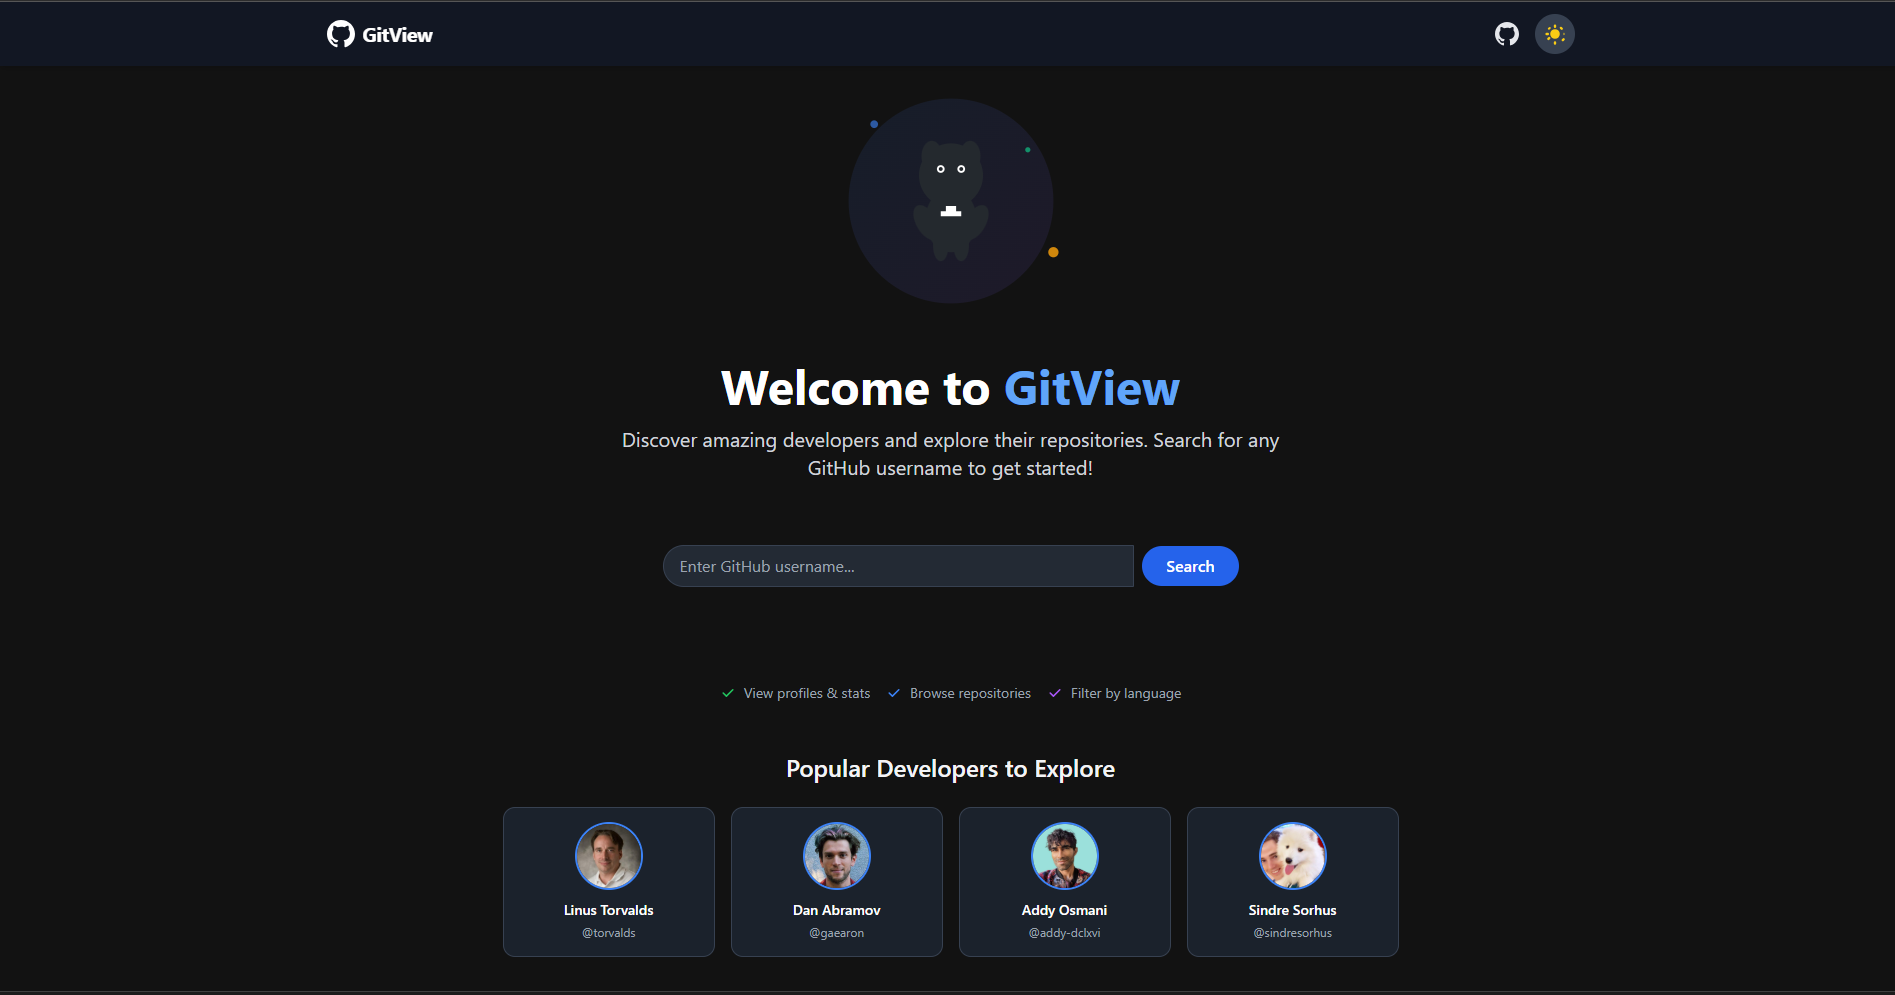
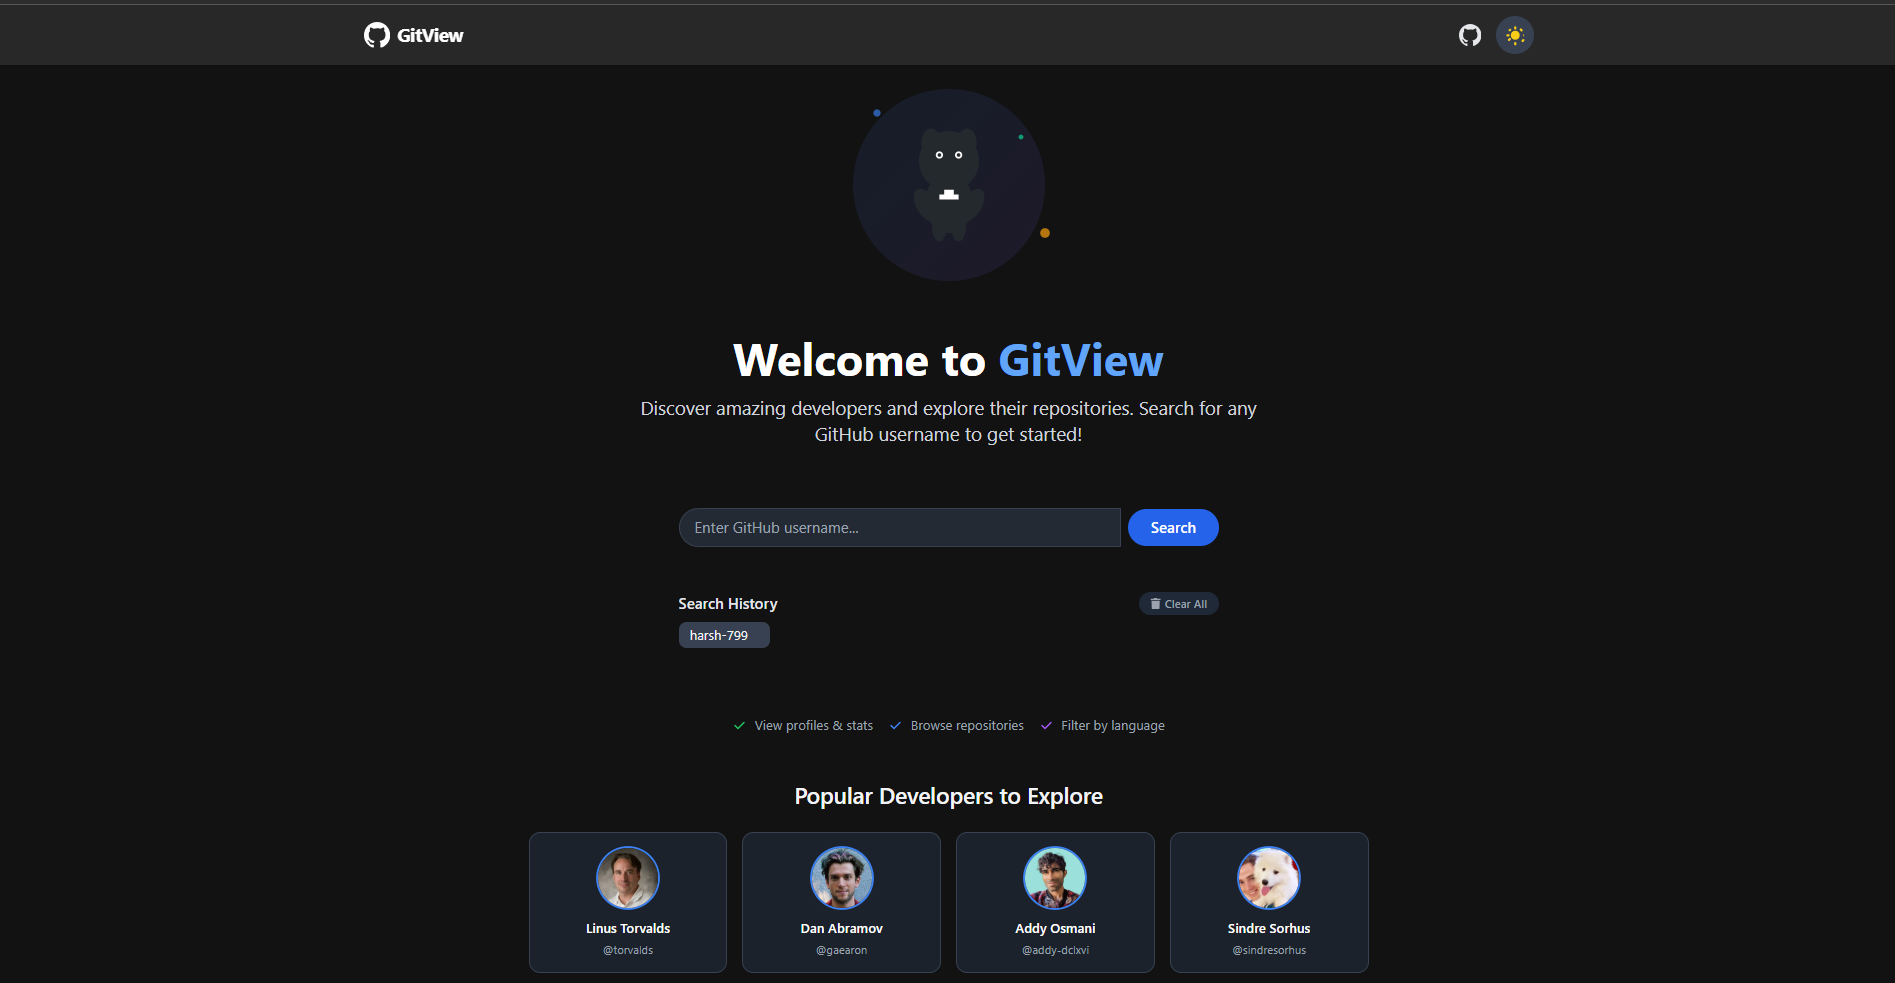
Some UI Tweaks
- Changed Light/Dark Mode colors as it was leading to Ui inconsistency

diff --git a/src/components/RepoCard.js b/src/components/RepoCard.js
@@ -17,7 +17,7 @@ export default function RepoCard({ repo }) {
   };
 
   return (
-    <div className="bg-white/60 dark:bg-gray-800/60 rounded-xl shadow-lg p-5 mb-4 backdrop-blur border border-gray-200 dark:border-gray-800 transition hover:scale-[1.02] hover:shadow-2xl flex flex-col gap-2">
+    <div className="bg-white/60 dark:bg-[#282828] rounded-xl shadow-lg p-5 mb-4 backdrop-blur border border-gray-200 dark:border-gray-800 transition hover:scale-[1.02] hover:shadow-2xl flex flex-col gap-2">
       <div className="flex items-center justify-between mb-2">
         <div className="flex items-center gap-2">
           <a
@@ -60,7 +60,7 @@ export default function RepoCard({ repo }) {
           href={repo.html_url}
           target="_blank"
           rel="noopener noreferrer"
-          className="inline-block rounded-full bg-gray-800 text-white px-4 py-1 text-sm font-medium hover:bg-gray-700 transition-all shadow"
+          className="inline-block rounded-full bg-gray-800 dark:bg-gray-700 text-white px-4 py-1 text-sm font-medium hover:bg-gray-700 transition-all duration-300 shadow-md hover:shadow-lg hover:scale-105"
         >
           View on GitHub
         </a>

diff --git a/src/components/UserProfileCard.js b/src/components/UserProfileCard.js
@@ -5,7 +5,7 @@ import { FaUserFriends, FaUserPlus, FaGithub } from 'react-icons/fa';
 export default function UserProfileCard({ user }) {
   if (!user) return null;
   return (
-    <div className="w-full max-w-2xl mx-auto bg-white/70 dark:bg-gray-900/70 backdrop-blur rounded-2xl shadow-xl p-6 mb-6 flex flex-col md:flex-row items-center gap-6 border border-gray-200 dark:border-gray-800 transition-transform duration-300 hover:scale-105">
+    <div className="w-full max-w-2xl mx-auto bg-white/70 dark:bg-[#282828] backdrop-blur rounded-2xl shadow-xl p-6 mb-6 flex flex-col md:flex-row items-center gap-6 border border-gray-200 dark:border-gray-800 transition-transform duration-300 hover:scale-105">
       <img
         src={user.avatar_url}
         alt={user.name || user.login}

diff --git a/src/components/SearchHistory.js b/src/components/SearchHistory.js
@@ -20,7 +20,7 @@ export default function SearchHistory({ history, onSelect, onClearAll, onDeleteI
         {history.map((username, idx) => (
           <div
             key={username + idx}
-            className="group relative bg-gray-200 dark:bg-gray-700 text-gray-800 dark:text-gray-100 rounded-lg hover:bg-blue-200 dark:hover:bg-blue-800 transition-all duration-200"
+            className="group relative bg-white dark:bg-gray-700 text-gray-800 dark:text-gray-100 rounded-lg hover:bg-blue-200 dark:hover:bg-blue-800 transition-all duration-200"
           >
             <button
               onClick={() => onSelect(username)}

diff --git a/src/components/SidebarFilters.js b/src/components/SidebarFilters.js
@@ -20,7 +20,7 @@ export default function SidebarFilters({ selected, onChange }) {
   };
 
   return (
-    <aside className="w-full md:w-64 bg-white/70 dark:bg-gray-900/70 rounded-xl shadow-lg p-4 mb-4 md:mb-0 md:mr-6 sticky top-20 h-fit">
+    <aside className="w-full md:w-64 bg-white/70 dark:bg-[#282828] rounded-xl shadow-lg p-4 mb-4 md:mb-0 md:mr-6 sticky top-20 h-fit">
       <h2 className="text-lg font-semibold mb-3 text-gray-800 dark:text-gray-100">Filter by Language</h2>
       <div className="flex flex-col gap-2">
         {LANGUAGES.map(lang => (

diff --git a/src/App.js b/src/App.js
@@ -90,7 +90,7 @@ function App() {
   const toggleTheme = () => setTheme(t => (t === 'dark' ? 'light' : 'dark'));
 
   return (
-    <div className="min-h-screen w-full font-sans transition-all duration-300 ease-in-out bg-white dark:bg-[#121212]">
+    <div className="min-h-screen w-full font-sans transition-all duration-300 ease-in-out bg-[#EDE8D0] dark:bg-[#121212]">
       <Navbar theme={theme} toggleTheme={toggleTheme} />
       
       {/* Conditional Layout */}

diff --git a/src/components/Navbar.js b/src/components/Navbar.js
@@ -8,7 +8,7 @@ export default function Navbar({ theme, toggleTheme }) {
   };
 
   return (
-    <nav className="sticky top-0 z-50 bg-white/80 dark:bg-gray-900/80 backdrop-blur shadow-md transition-colors">
+    <nav className="sticky top-0 z-50 bg-white/80 dark:bg-[#282828] backdrop-blur shadow-md transition-colors">
       <div className="max-w-7xl mx-auto flex items-center justify-between px-4 py-3">
         <button
           onClick={goHome}
